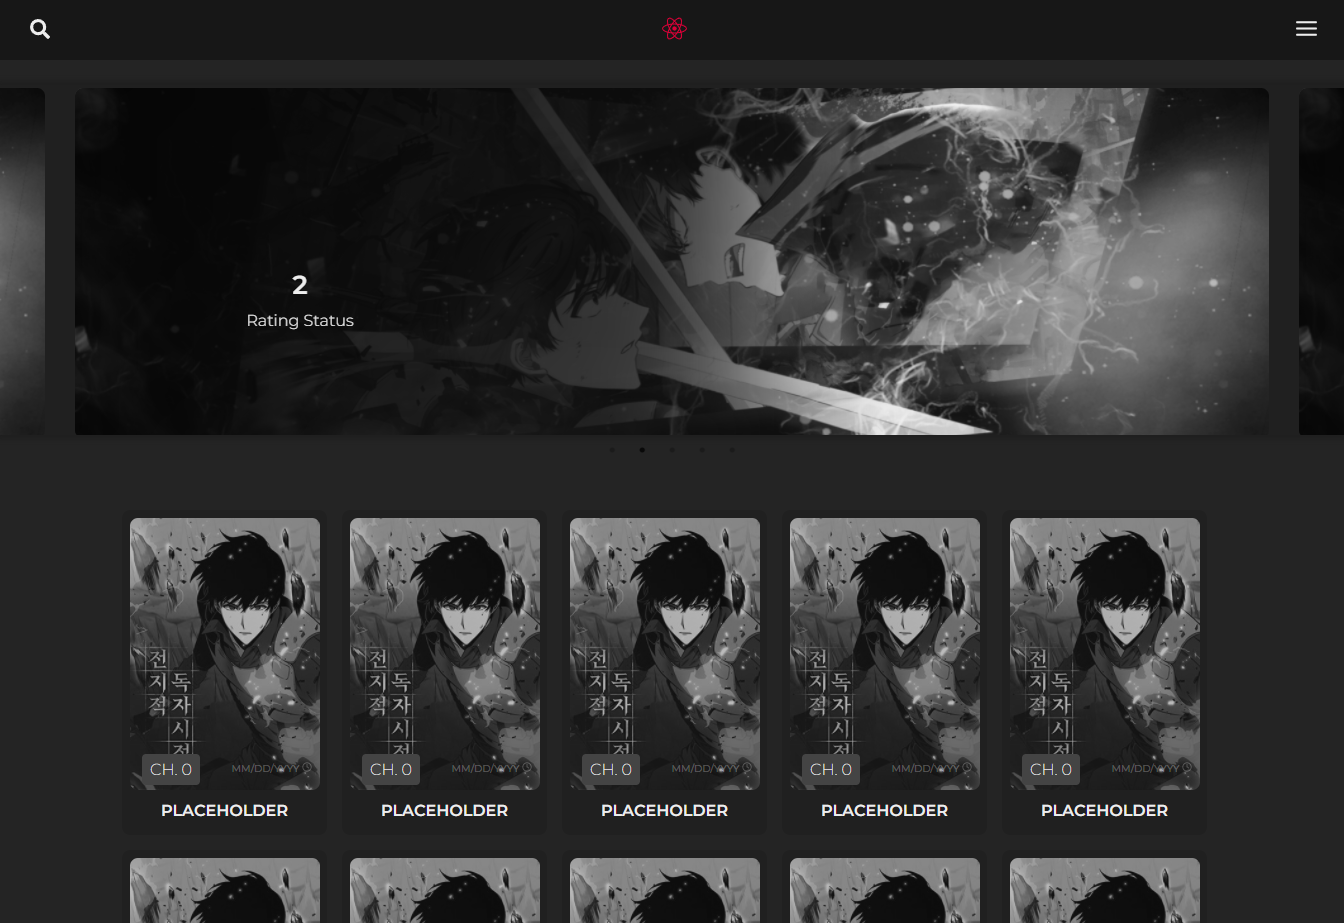
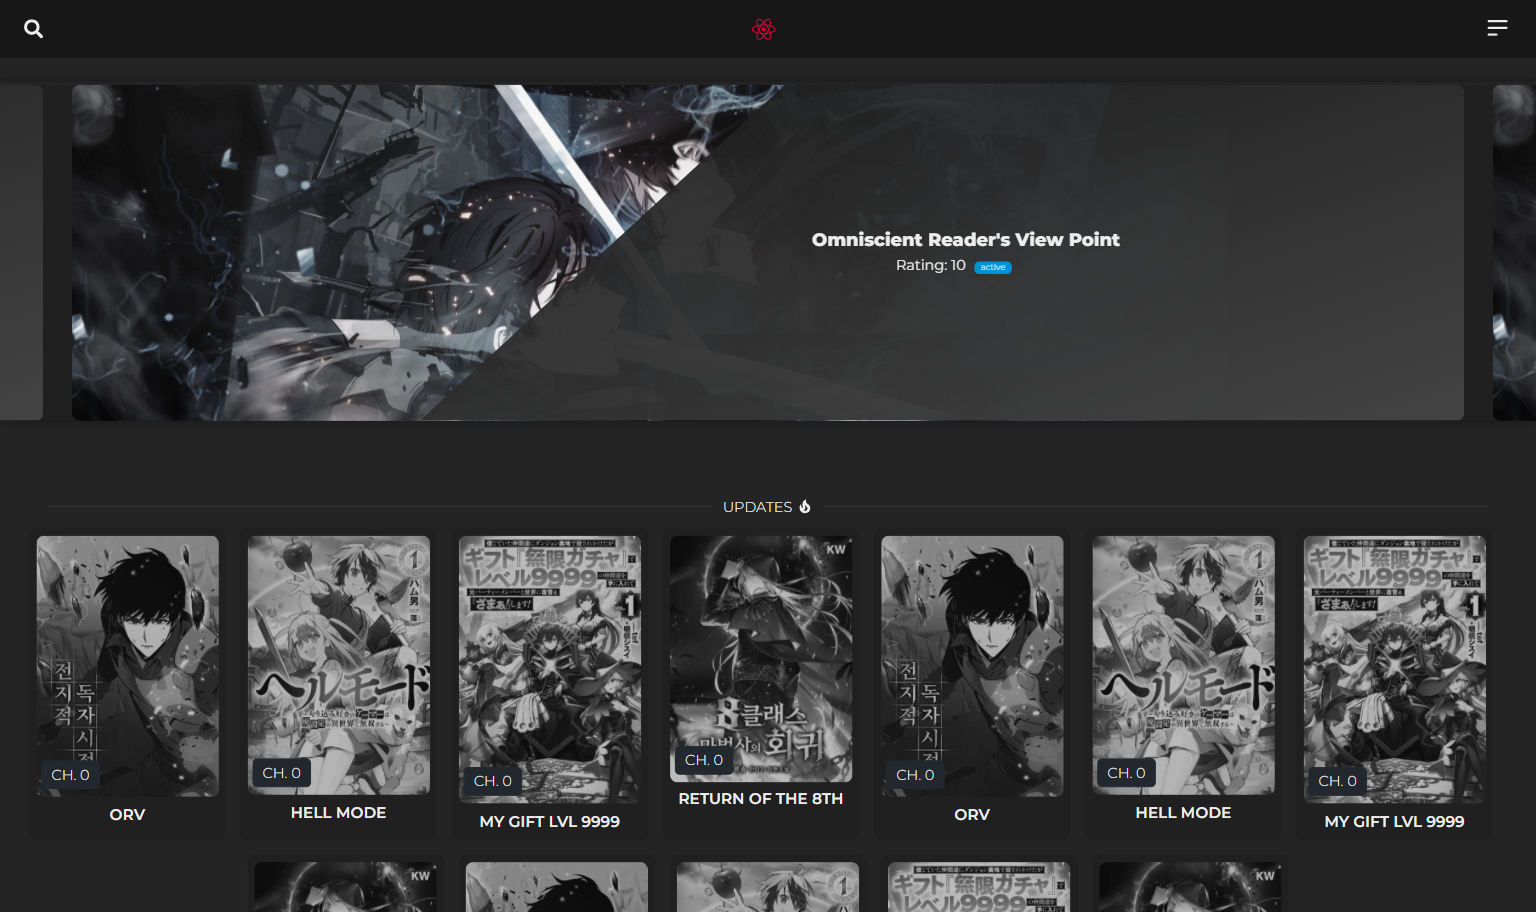
readme update

diff --git a/src/Components/Base/CarouselItem.jsx b/src/Components/Base/CarouselItem.jsx
@@ -1,7 +1,9 @@
+import { Link } from "react-router-dom";
+
 function CarouselItem() {
     return (
         <div className="block">
-            <div className="carousel__item" style={{}}>
+            <div className="carousel__item">
                 <div>
                     <img
                         className="carousel__item__img"
@@ -16,15 +18,17 @@ function CarouselItem() {
                     <div className="carousel__item__img--after">
                         <div className="carousel__item__text ml-10">
                             <div>
-                                <h1 className="text-lg md:text-2xl lg:text-3xl px-7">
-                                    Omniscient Reader's View Point
-                                </h1>
-                                <p className="text-lg md:text-xl lg:text-2xl font-normal">
-                                    Rating: 10{" "}
-                                    <span className="badge badge-info rounded-lg ml-2">
-                                        active
-                                    </span>
-                                </p>
+                                <Link to="/">
+                                    <h1 className="text-xl md:text-2xl lg:text-3xl px-10 pl-20 mb-2">
+                                        Omniscient Reader's View Point
+                                    </h1>
+                                    <p className="text-lg md:text-xl lg:text-2xl font-normal">
+                                        Rating: 10{" "}
+                                        <span className="badge badge-info rounded-lg ml-2">
+                                            active
+                                        </span>
+                                    </p>
+                                </Link>
                             </div>
                         </div>
                     </div>

diff --git a/README.md b/README.md
@@ -36,7 +36,7 @@ _Obs, it's not gonna run cus I need to set up a branch using a JSON file instead
 
 ### Desktop
 
--   `(1350):`
+-   `(1600):`
     <p align="center"> 
       <img src="https://github.com/Nyyu/TCC/blob/main/preview/desktop-preview.png" alt='Desktop preview'> 
     </p>
@@ -45,14 +45,14 @@ _Obs, it's not gonna run cus I need to set up a branch using a JSON file instead
 
 -   `(950):`
 <p align="center"> 
-  <img src="#" alt='Tablet preview'> 
+  <img src="https://github.com/Nyyu/TCC/blob/main/preview/tablet-preview.png" alt='Tablet preview'> 
 </p>
 
 ### Mobile
 
--   `(1350):`
+-   `(600):`
 <p align="center"> 
-  <img src="#" alt='Mobile preview'> 
+  <img src="https://github.com/Nyyu/TCC/blob/main/preview/mobile-preview.png" alt='Mobile preview'> 
 </p>
 
 ## Others
